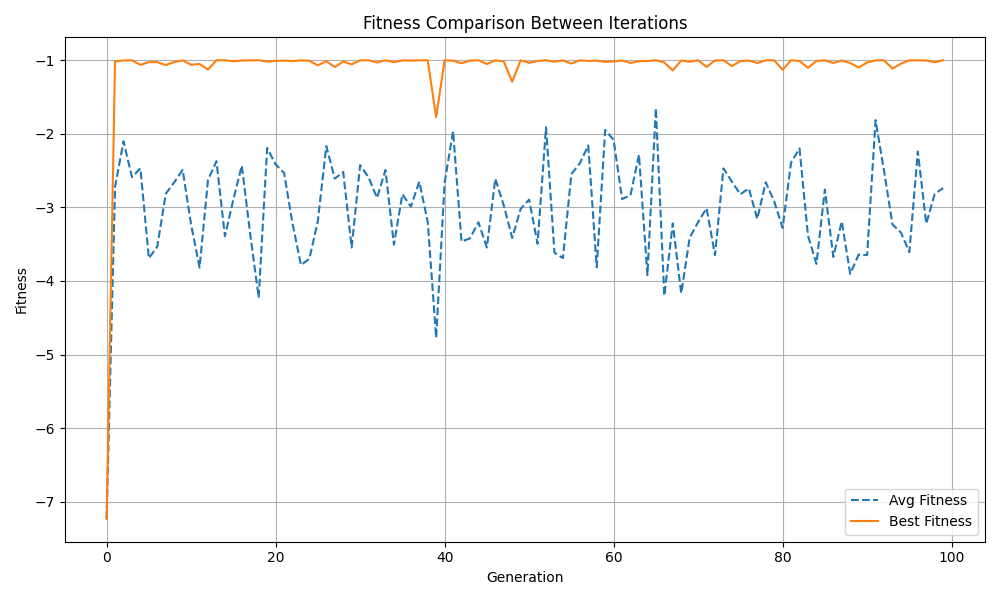
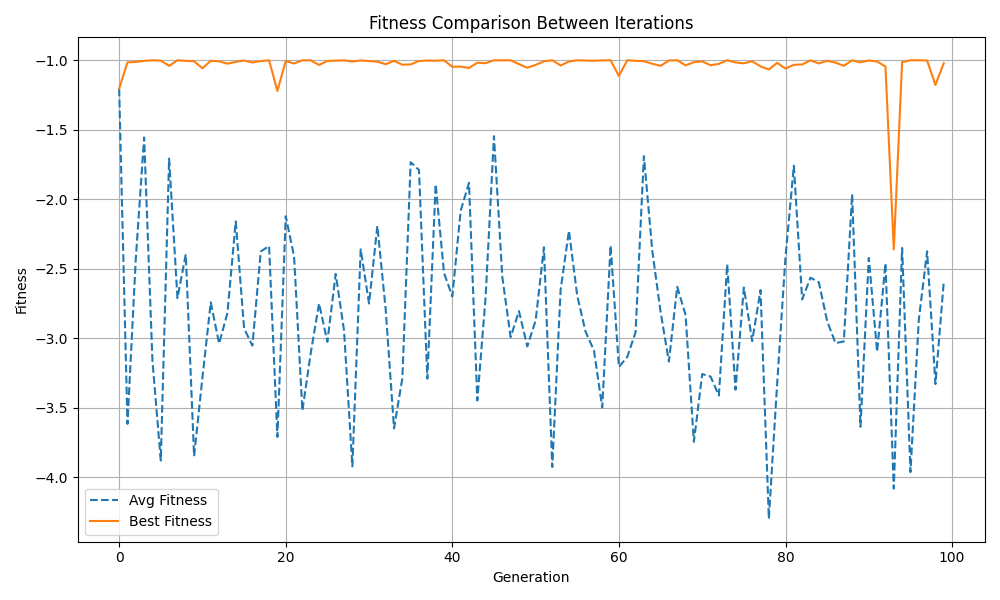
xor results

diff --git a/README.md b/README.md
@@ -138,6 +138,9 @@ conns = [
 ]
 ```
 
+## NEAT XOR results:
+![XOR Test Result](XOR_test1.png)
+
 Where they have 2 input nodes, 1 output node and 1 hidden node.
 This is the default structure of the xor network and the NEAT algorithm will do its best to minimize its loss so it is more accurate.
 
